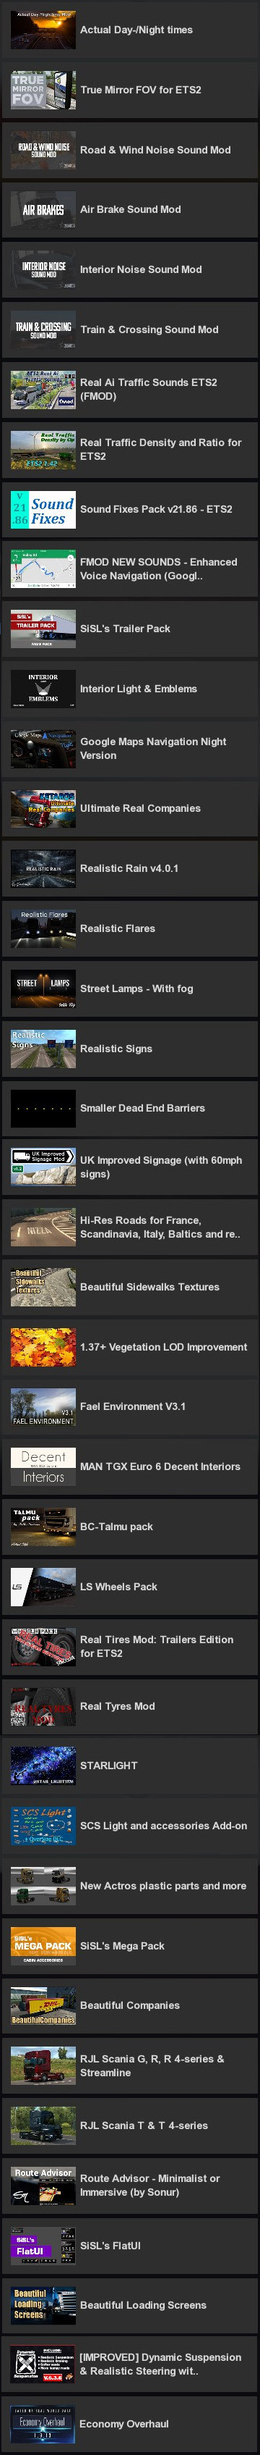
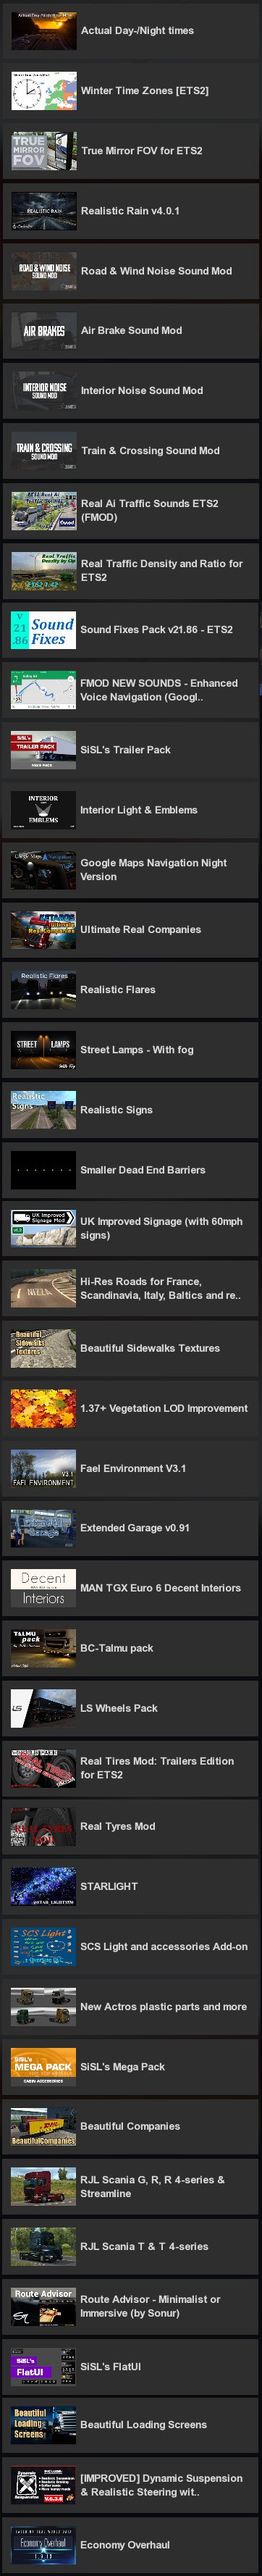
ETS2E Updated to v1.1

diff --git a/ets2e/RELEASENOTES.md b/ets2e/RELEASENOTES.md
@@ -1,1 +1,7 @@
 # Old Release Notes
+### Euro Truck Simulator 2: Enhanced 1.0.01 "Andalusia"
+- Removed VNL Aradeth related mods (It causes game crash and it is no longer maintained)
+- Replaced Actual Day-/Night times mod with most active one
+
+### Euro Truck Simulator 2: Enhanced 1.0 "Andalusia"
+Initial release.
